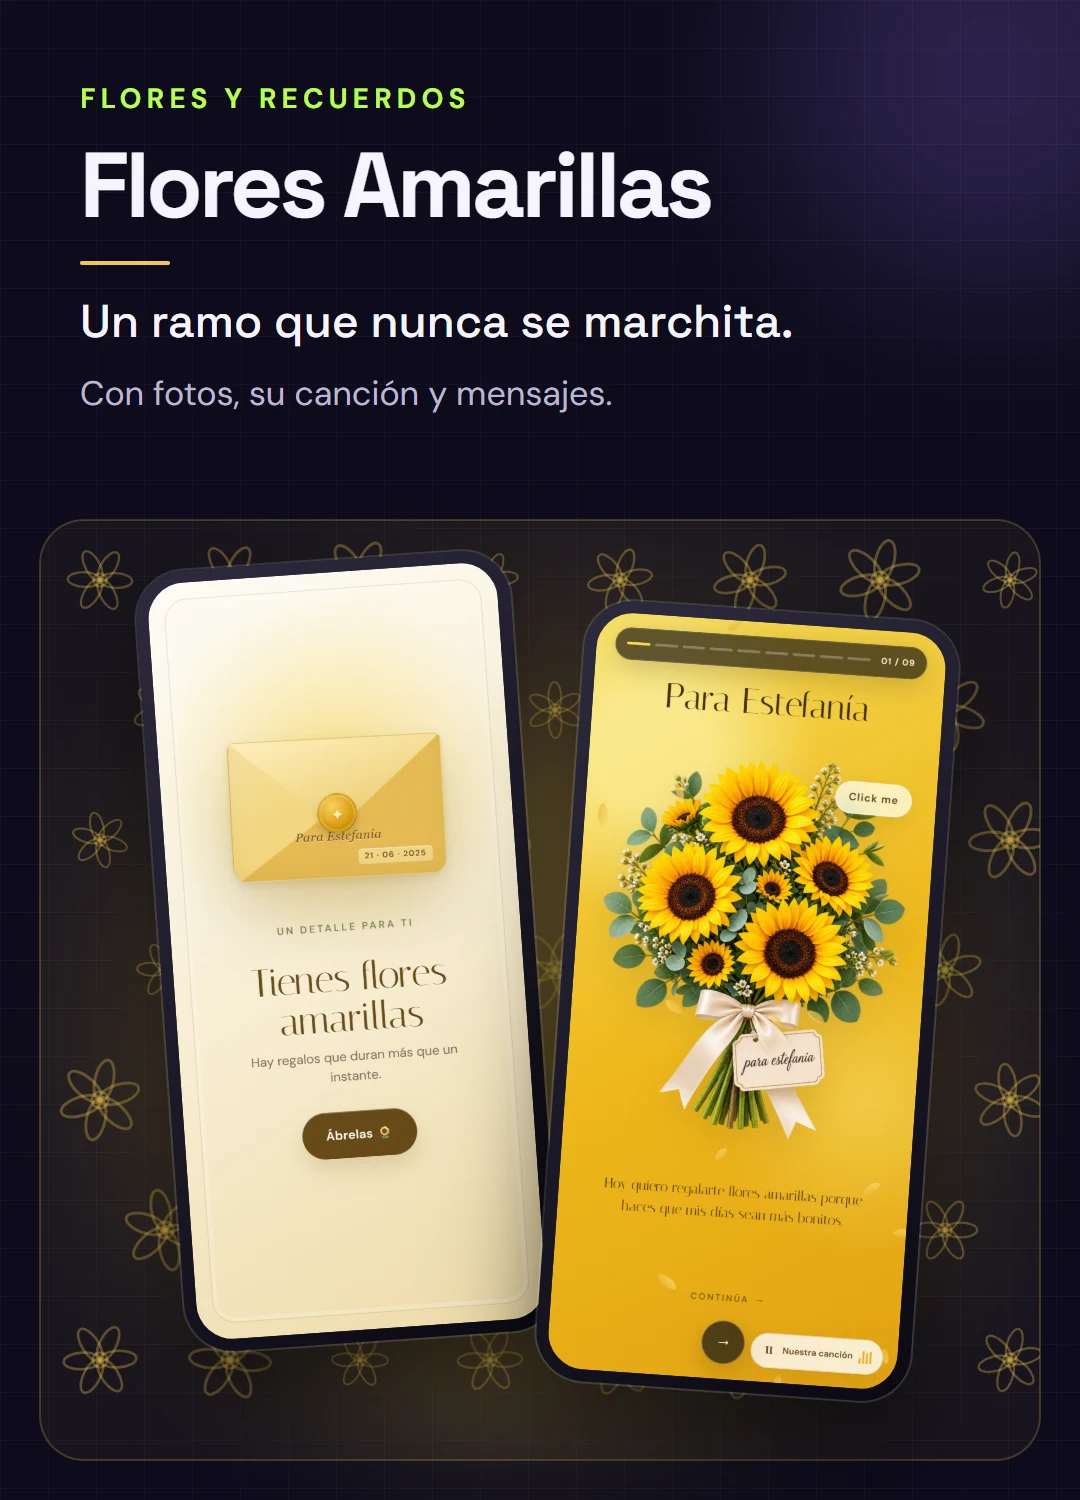
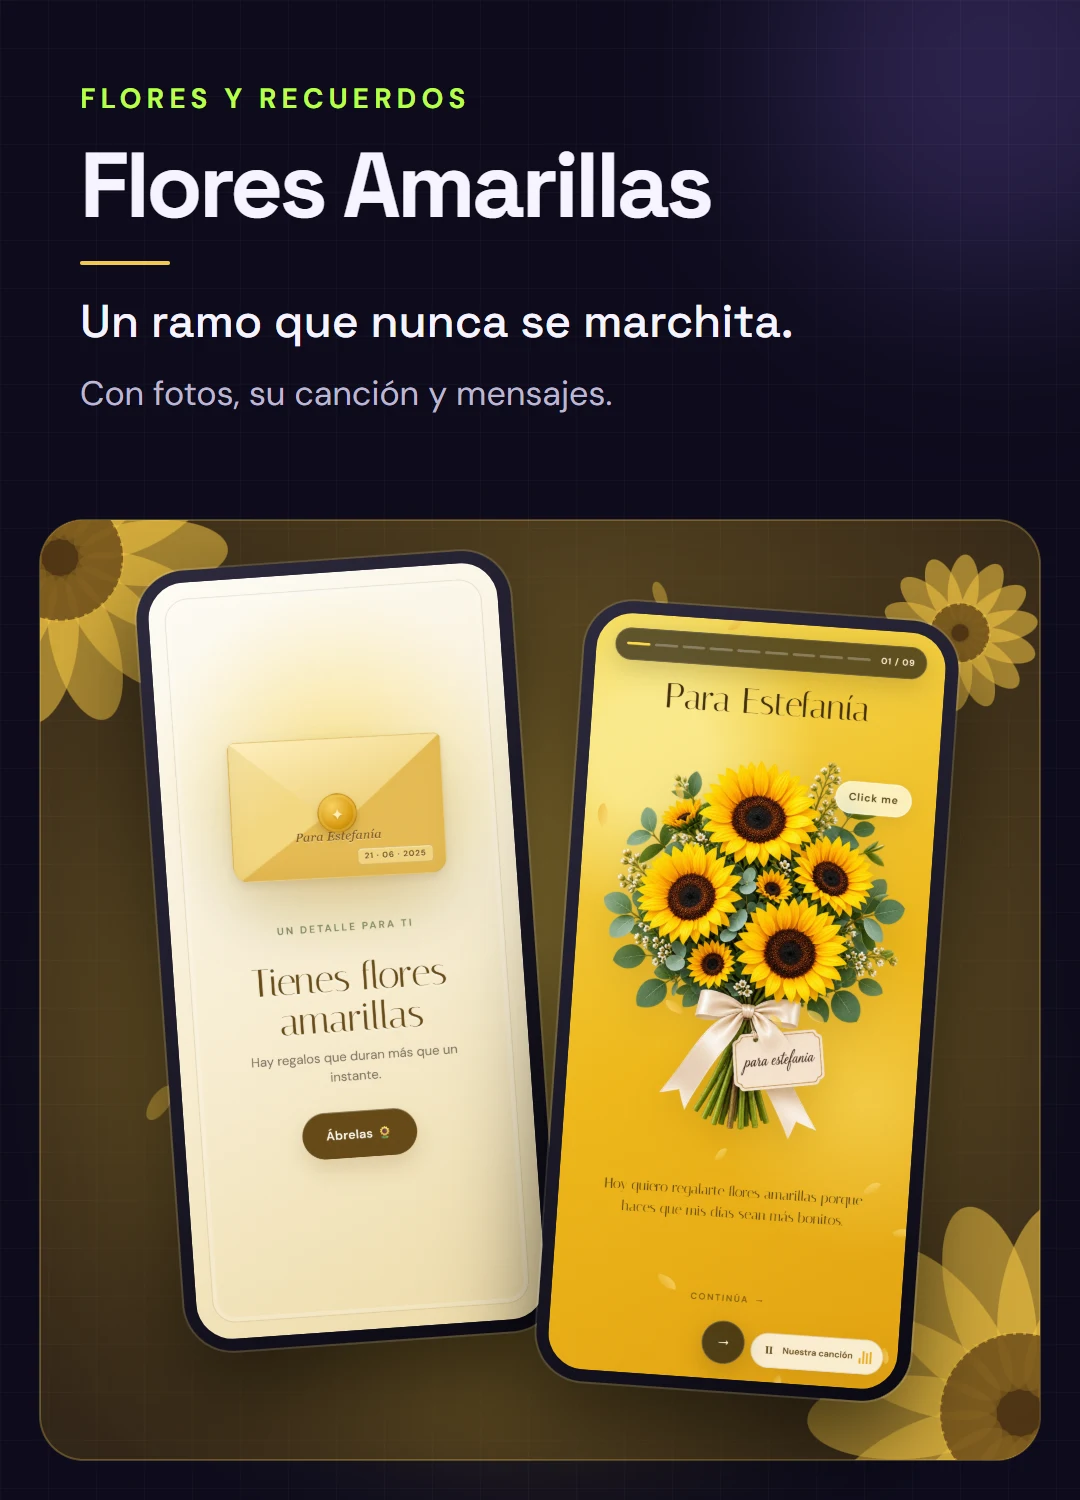
Give each showcase a colorful backdrop drawn from its experience

Changed region(s): [[0.0306, 0.3373, 0.9778, 0.9813]]

diff --git a/experiencias-digitales.html b/experiencias-digitales.html
@@ -36,8 +36,8 @@
           <h3 class="experience-feature-title" id="project-flores-amarillas">Flores Amarillas</h3>
           <a class="experience-feature-shot" href="flores-amarillas-estefania/" target="_blank" rel="noopener noreferrer" aria-label="Ver experiencia Flores Amarillas (abre en una pestaña nueva)">
             <picture>
-              <source media="(max-width: 639px)" srcset="img/experiencia-flores-amarillas-movil.webp?v=3" width="1080" height="1500">
-              <img src="img/experiencia-flores-amarillas.webp?v=3" alt="Flores Amarillas: dos pantallas en celular, el sobre de bienvenida para Estefanía y el ramo de girasoles. Un ramo que nunca se marchita, con fotos, su canción y mensajes." width="1600" height="1000" loading="lazy" decoding="async">
+              <source media="(max-width: 639px)" srcset="img/experiencia-flores-amarillas-movil.webp?v=4" width="1080" height="1500">
+              <img src="img/experiencia-flores-amarillas.webp?v=4" alt="Flores Amarillas: dos pantallas en celular, el sobre de bienvenida para Estefanía y el ramo de girasoles. Un ramo que nunca se marchita, con fotos, su canción y mensajes." width="1600" height="1000" loading="lazy" decoding="async">
             </picture>
           </a>
           <div class="experience-feature-actions">
@@ -49,8 +49,8 @@
           <h3 class="experience-feature-title" id="project-flores-para-ti">Flores para ti</h3>
           <a class="experience-feature-shot" href="flores-para-ti/" target="_blank" rel="noopener noreferrer" aria-label="Ver experiencia Flores para ti (abre en una pestaña nueva)">
             <picture>
-              <source media="(max-width: 639px)" srcset="img/experiencia-flores-para-ti-movil.webp?v=3" width="1080" height="1500">
-              <img src="img/experiencia-flores-para-ti.webp?v=3" alt="Flores para ti: dos pantallas en celular, el jardín de sobres y una carta abierta. Todo lo que quieres decirle: cada sobre guarda una carta con audio." width="1600" height="1000" loading="lazy" decoding="async">
+              <source media="(max-width: 639px)" srcset="img/experiencia-flores-para-ti-movil.webp?v=4" width="1080" height="1500">
+              <img src="img/experiencia-flores-para-ti.webp?v=4" alt="Flores para ti: dos pantallas en celular, el jardín de sobres y una carta abierta. Todo lo que quieres decirle: cada sobre guarda una carta con audio." width="1600" height="1000" loading="lazy" decoding="async">
             </picture>
           </a>
           <div class="experience-feature-actions">
@@ -62,8 +62,8 @@
           <h3 class="experience-feature-title" id="project-hot-wheels">Hot Wheels</h3>
           <a class="experience-feature-shot" href="hot-wheels/" target="_blank" rel="noopener noreferrer" aria-label="Ver experiencia Hot Wheels (abre en una pestaña nueva)">
             <picture>
-              <source media="(max-width: 639px)" srcset="img/experiencia-hot-wheels-movil.webp?v=3" width="1080" height="1500">
-              <img src="img/experiencia-hot-wheels.webp?v=3" alt="Hot Wheels: dos pantallas en celular, la bienvenida de la entrega especial y el mapa para elegir la ruta. Un regalo que se juega: recuerdos en una ruta con minijuegos y carrera." width="1600" height="1000" loading="lazy" decoding="async">
+              <source media="(max-width: 639px)" srcset="img/experiencia-hot-wheels-movil.webp?v=4" width="1080" height="1500">
+              <img src="img/experiencia-hot-wheels.webp?v=4" alt="Hot Wheels: dos pantallas en celular, la bienvenida de la entrega especial y el mapa para elegir la ruta. Un regalo que se juega: recuerdos en una ruta con minijuegos y carrera." width="1600" height="1000" loading="lazy" decoding="async">
             </picture>
           </a>
           <div class="experience-feature-actions">
@@ -75,8 +75,8 @@
           <h3 class="experience-feature-title" id="project-dia-del-novio">Día del Novio</h3>
           <a class="experience-feature-shot" href="https://dia-del-novio.rotfstudio.com/bienvenida/dist/" target="_blank" rel="noopener noreferrer" aria-label="Ver experiencia Día del Novio (abre en una pestaña nueva)">
             <picture>
-              <source media="(max-width: 639px)" srcset="img/experiencia-dia-del-novio-movil.webp?v=3" width="1080" height="1500">
-              <img src="img/experiencia-dia-del-novio.webp?v=3" alt="Día del Novio: dos pantallas en celular, la bienvenida con foto de la pareja y el capítulo de la fecha en que todo empezó. Su historia, capítulo a capítulo, con fotos y sorpresas que se revelan al tocar." width="1600" height="1000" loading="lazy" decoding="async">
+              <source media="(max-width: 639px)" srcset="img/experiencia-dia-del-novio-movil.webp?v=4" width="1080" height="1500">
+              <img src="img/experiencia-dia-del-novio.webp?v=4" alt="Día del Novio: dos pantallas en celular, la bienvenida con foto de la pareja y el capítulo de la fecha en que todo empezó. Su historia, capítulo a capítulo, con fotos y sorpresas que se revelan al tocar." width="1600" height="1000" loading="lazy" decoding="async">
             </picture>
           </a>
           <div class="experience-feature-actions">
